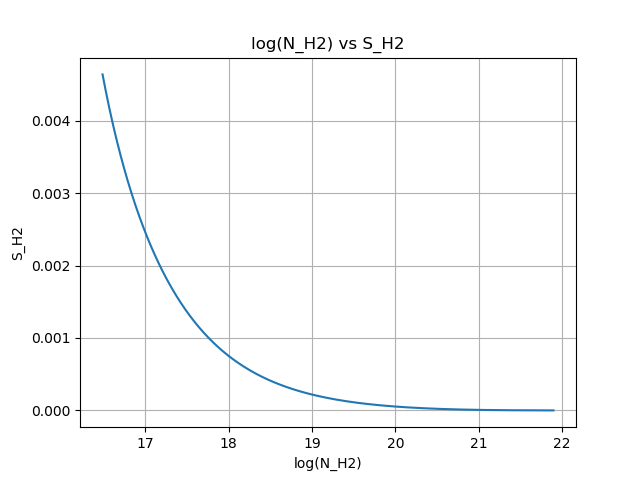
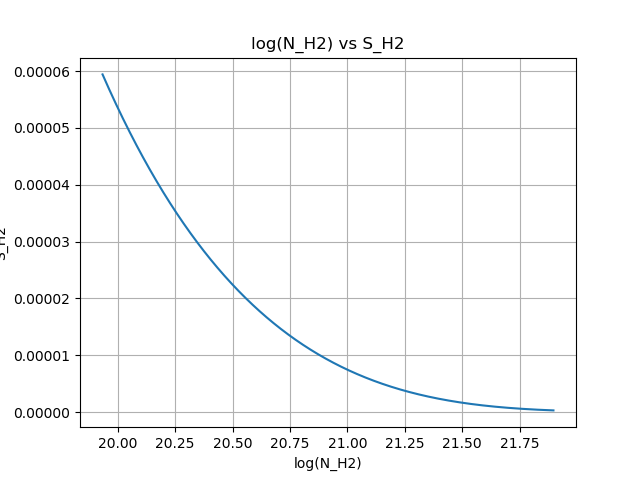
Draine's Formula - 11 iterations
Updated the Draine's formula, and now there are 11 iterations in total that evolve the values n_LW, X_H2, n_H2, N_H2, S_H2 to get drastic changes in the plots and the values.
Will try to implement a more efficient way to include all iterations in further updates, right now everything is very explicit.

diff --git a/X_H2_self_shielding.py b/X_H2_self_shielding.py
@@ -59,6 +59,61 @@ def calc_n_CO(n_H, X_CO):
     return n_H * abundance_Ctot * X_CO # CO/cc
 
 def CO_density():
+    n_LW_1 = np.zeros(1000)
+    n_LW_2 = np.zeros(1000)
+    n_LW_3 = np.zeros(1000)
+    n_LW_4 = np.zeros(1000)
+    n_LW_5 = np.zeros(1000)
+    n_LW_6 = np.zeros(1000)
+    n_LW_7 = np.zeros(1000)
+    n_LW_8 = np.zeros(1000)
+    n_LW_9 = np.zeros(1000)
+    n_LW_10 = np.zeros(1000)
+
+    X_H2_1 = np.zeros(1000)
+    X_H2_2 = np.zeros(1000)
+    X_H2_3 = np.zeros(1000)
+    X_H2_4 = np.zeros(1000)
+    X_H2_5 = np.zeros(1000)
+    X_H2_6 = np.zeros(1000)
+    X_H2_7 = np.zeros(1000)
+    X_H2_8 = np.zeros(1000)
+    X_H2_9 = np.zeros(1000)
+    X_H2_10 = np.zeros(1000)
+
+    n_H2_1 = np.zeros(1000)
+    n_H2_2 = np.zeros(1000)
+    n_H2_3 = np.zeros(1000)
+    n_H2_4 = np.zeros(1000)
+    n_H2_5 = np.zeros(1000)
+    n_H2_6 = np.zeros(1000)
+    n_H2_7 = np.zeros(1000)
+    n_H2_8 = np.zeros(1000)
+    n_H2_9 = np.zeros(1000)
+    n_H2_10 = np.zeros(1000)
+
+    S_H2_1 = np.zeros(1000)
+    S_H2_2 = np.zeros(1000)
+    S_H2_3 = np.zeros(1000)
+    S_H2_4 = np.zeros(1000)
+    S_H2_5 = np.zeros(1000)
+    S_H2_6 = np.zeros(1000)
+    S_H2_7 = np.zeros(1000)
+    S_H2_8 = np.zeros(1000)
+    S_H2_9 = np.zeros(1000)
+    S_H2_10 = np.zeros(1000)
+
+    N_H2_1 = np.zeros(1000)
+    N_H2_2 = np.zeros(1000)
+    N_H2_3 = np.zeros(1000)
+    N_H2_4 = np.zeros(1000)
+    N_H2_5 = np.zeros(1000)
+    N_H2_6 = np.zeros(1000)
+    N_H2_7 = np.zeros(1000)
+    N_H2_8 = np.zeros(1000)
+    N_H2_9 = np.zeros(1000)
+    N_H2_10 = np.zeros(1000)
+
     s = np.zeros(1000)
     pdf = np.zeros(1000)
     lambda_jeans = np.zeros(1000)
@@ -93,24 +148,58 @@ def CO_density():
     n_LW = calc_n_LW(n_H, G_o, lambda_jeans)
     X_H2_a = calc_X_H2(n_H, Z, n_LW)
     n_H2_a = n_H * X_H2_a
+    a_1 = X_H2_a
+    a_2 = n_H2_a
 
-    
-    ctr = 0
-    if ctr < 5:
-        n_LW_ss, S_H2, N_H2 = calc_n_LW_ss(n_H, n_H2_a, G_o, lambda_jeans)
-        X_H2 = calc_X_H2(n_H, Z, n_LW_ss)
-        n_H2 = n_H * X_H2
-        ctr += 1
-        X_H2_a = X_H2
-        n_H2_a = n_H2
+    n_LW_1, S_H2_1, N_H2_1 = calc_n_LW_ss(n_H, n_H2_a, G_o, lambda_jeans)
+    X_H2_1 = calc_X_H2(n_H, Z, n_LW_1)
+    n_H2_1 = n_H * X_H2_1
 
-    if
+    n_LW_2, S_H2_2, N_H2_2 = calc_n_LW_ss(n_H, n_H2_1, G_o, lambda_jeans)
+    X_H2_2 = calc_X_H2(n_H, Z, n_LW_2)
+    n_H2_2 = n_H * X_H2_2
+
+    n_LW_3, S_H2_3, N_H2_3 = calc_n_LW_ss(n_H, n_H2_2, G_o, lambda_jeans)
+    X_H2_3 = calc_X_H2(n_H, Z, n_LW_3)
+    n_H2_3 = n_H * X_H2_3
+
+    n_LW_4, S_H2_4, N_H2_4 = calc_n_LW_ss(n_H, n_H2_3, G_o, lambda_jeans)
+    X_H2_4 = calc_X_H2(n_H, Z, n_LW_4)
+    n_H2_4 = n_H * X_H2_4
+
+    n_LW_5, S_H2_5, N_H2_5 = calc_n_LW_ss(n_H, n_H2_4, G_o, lambda_jeans)
+    X_H2_5 = calc_X_H2(n_H, Z, n_LW_5)
+    n_H2_5 = n_H * X_H2_5
+
+    n_LW_6, S_H2_6, N_H2_6 = calc_n_LW_ss(n_H, n_H2_5, G_o, lambda_jeans)
+    X_H2_6 = calc_X_H2(n_H, Z, n_LW_6)
+    n_H2_6 = n_H * X_H2_6
+
+    n_LW_7, S_H2_7, N_H2_7 = calc_n_LW_ss(n_H, n_H2_6, G_o, lambda_jeans)
+    X_H2_7 = calc_X_H2(n_H, Z, n_LW_7)
+    n_H2_7 = n_H * X_H2_7
+
+    n_LW_8, S_H2_8, N_H2_8 = calc_n_LW_ss(n_H, n_H2_7, G_o, lambda_jeans)
+    X_H2_8 = calc_X_H2(n_H, Z, n_LW_8)
+    n_H2_8 = n_H * X_H2_8
+
+    n_LW_9, S_H2_9, N_H2_9 = calc_n_LW_ss(n_H, n_H2_8, G_o, lambda_jeans)
+    X_H2_9 = calc_X_H2(n_H, Z, n_LW_9)
+    n_H2_9 = n_H * X_H2_9
+
+    n_LW_10, S_H2_10, N_H2_10 = calc_n_LW_ss(n_H, n_H2_9, G_o, lambda_jeans)
+    X_H2_10 = calc_X_H2(n_H, Z, n_LW_10)
+    n_H2_10 = n_H * X_H2_10
+
+    n_LW_ss, S_H2, N_H2 = calc_n_LW_ss(n_H, n_H2_10, G_o, lambda_jeans)
+    X_H2 = calc_X_H2(n_H, Z, n_LW_ss)
+    n_H2 = n_H * X_H2
 
     X_CO = calc_X_CO(n_H, n_H2_a, n_LW)
     n_CO = calc_n_CO(n_H, X_CO)
 
     plotting(n_H, pdf, lambda_jeans, X_H2, X_CO, n_CO, S_H2, N_H2)
-    return n_H, X_H2, n_LW, n_LW_ss, S_H2, N_H2
+    return n_H, n_H2, X_H2, n_LW, n_LW_ss, S_H2, N_H2, n_LW_1, n_LW_2, n_LW_3, n_LW_4, n_LW_5, n_LW_6, n_LW_7, n_LW_8, n_LW_9, n_LW_10, X_H2_1, X_H2_2, X_H2_3, X_H2_4, X_H2_5, X_H2_6, X_H2_7, X_H2_8, X_H2_9, X_H2_10, n_H2_1, n_H2_2, n_H2_3, n_H2_4, n_H2_5, n_H2_6, n_H2_7, n_H2_8, n_H2_9, n_H2_10, X_H2_a, n_H2_a
 
 def plotting(n_H, pdf, lambda_jeans, X_H2, X_CO, n_CO, S_H2, N_H2):
     plt.plot(np.log10(n_H), pdf)
@@ -173,4 +262,4 @@ if __name__=='__main__':
     path = 'for X_H2_self_shielding'
     os.makedirs(path, exist_ok=True)
     os.chdir(path)
-    n_H, X_H2, n_LW, n_LW_ss, S_H2, N_H2 = CO_density()
+    n_H, n_H2, X_H2, n_LW, n_LW_ss, S_H2, N_H2, n_LW_1, n_LW_2, n_LW_3, n_LW_4, n_LW_5, n_LW_6, n_LW_7, n_LW_8, n_LW_9, n_LW_10, X_H2_1, X_H2_2, X_H2_3, X_H2_4, X_H2_5, X_H2_6, X_H2_7, X_H2_8, X_H2_9, X_H2_10, n_H2_1, n_H2_2, n_H2_3, n_H2_4, n_H2_5, n_H2_6, n_H2_7, n_H2_8, n_H2_9, n_H2_10, X_H2_a, n_H2_a = CO_density()
